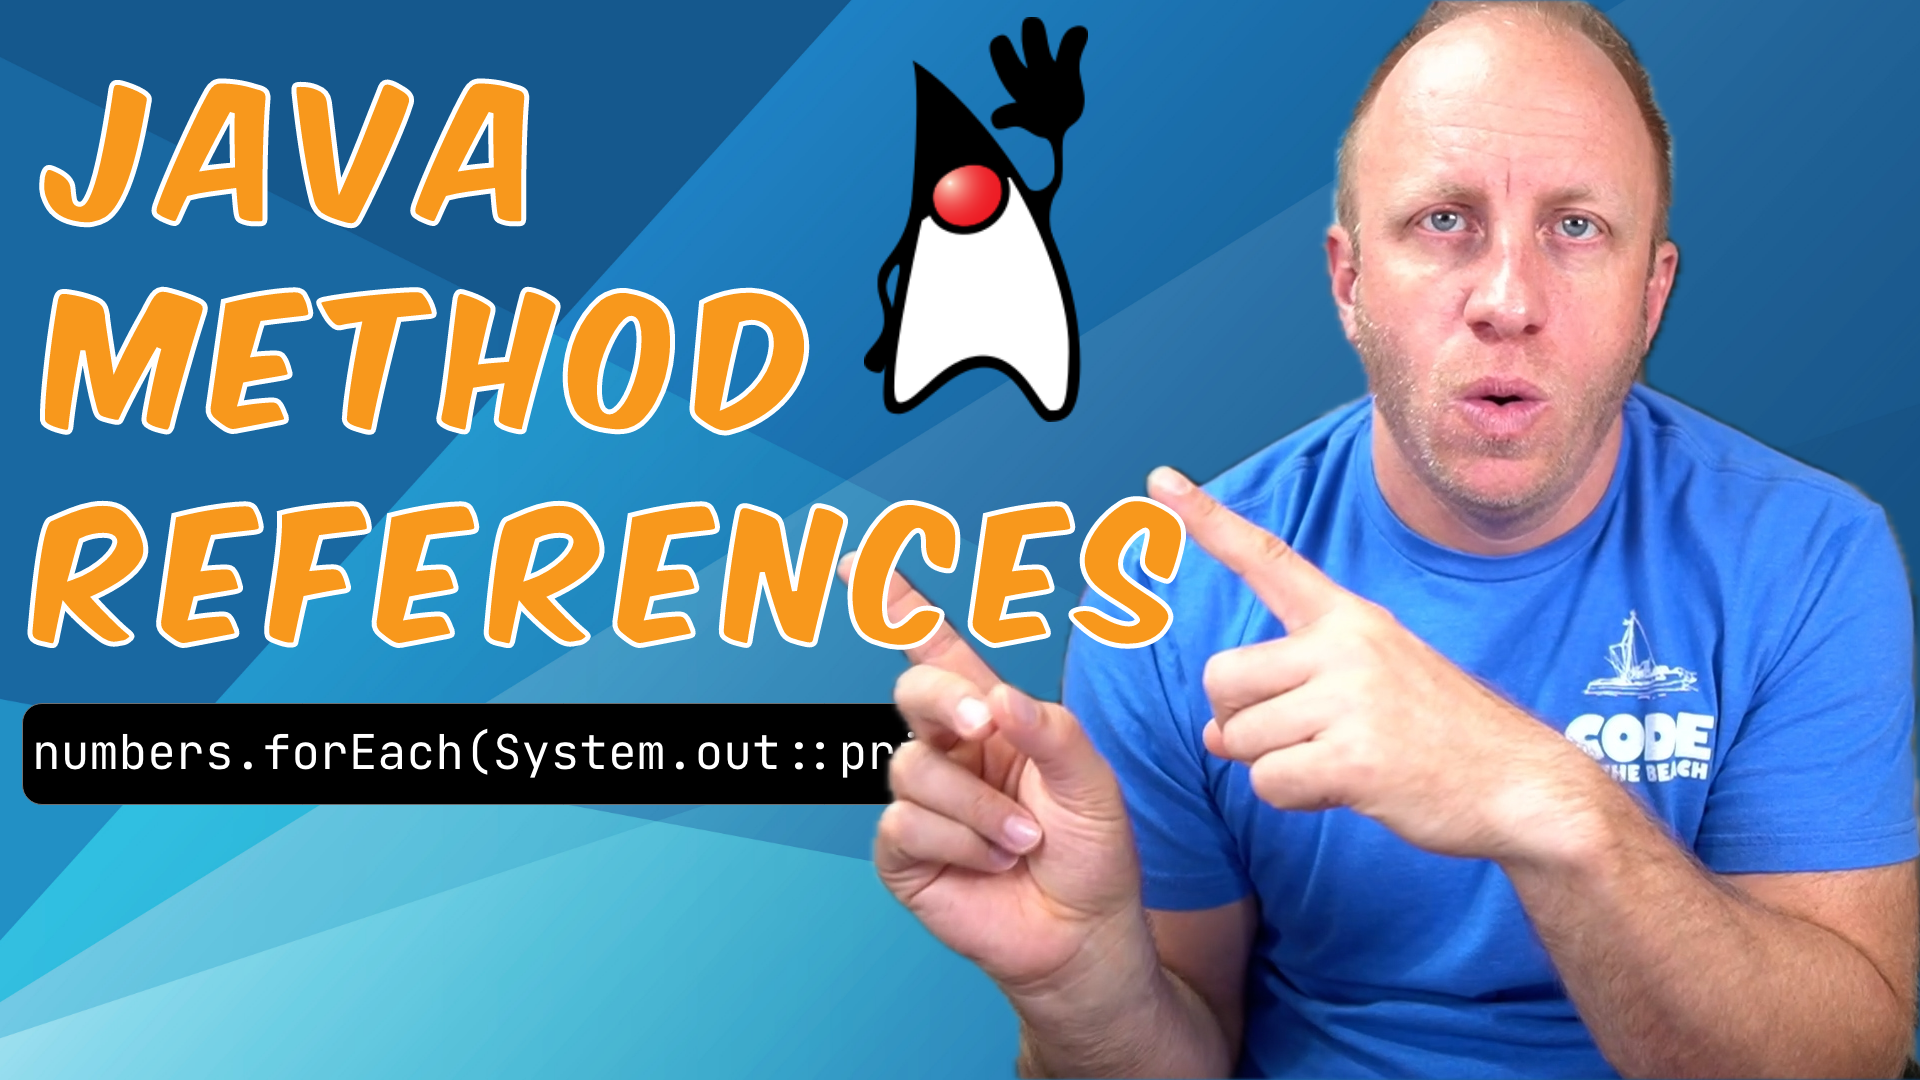
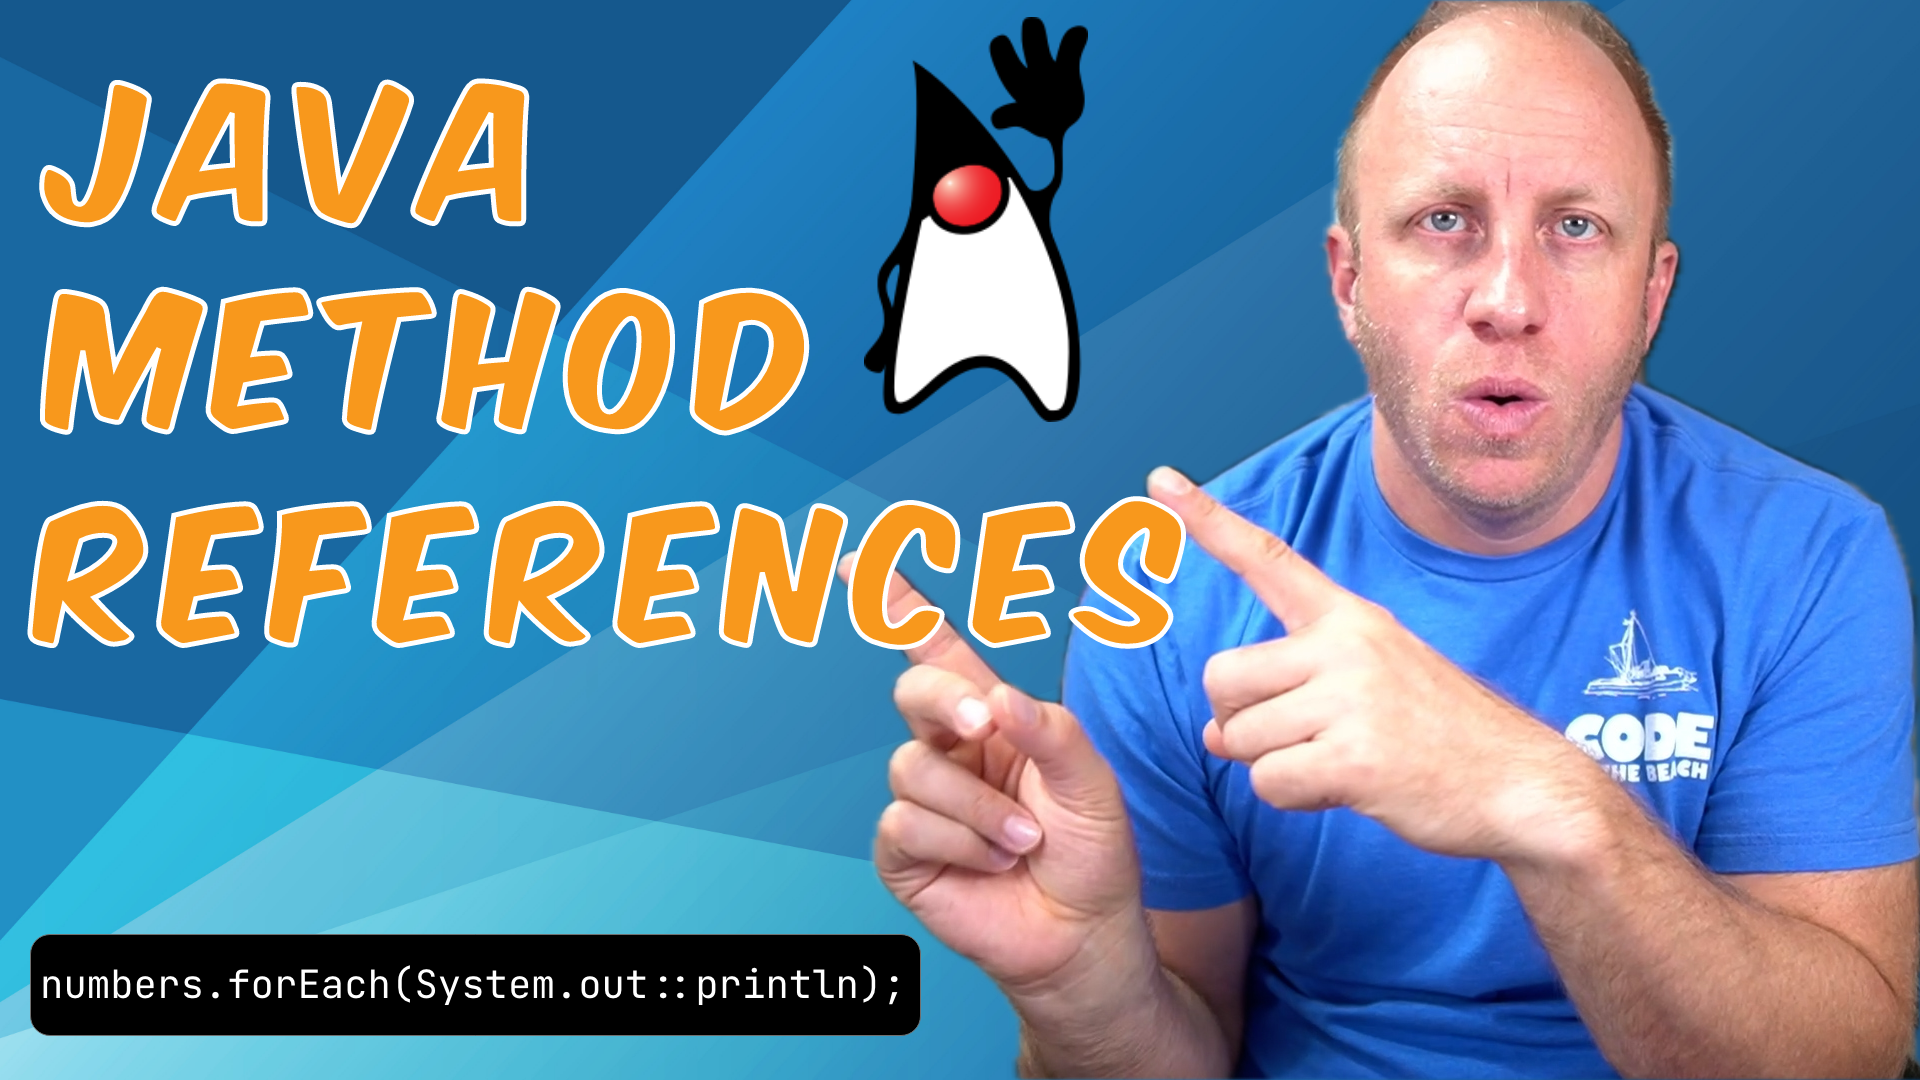
Updating cover image and adding youtube video

Changed region(s): [[0.0, 0.8556, 0.5, 0.9778], [0.0, 0.6417, 0.5, 0.7639]]

diff --git a/content/blog/2024/08/01/java-method-references.md b/content/blog/2024/08/01/java-method-references.md
@@ -9,7 +9,7 @@ tags:
   - Java
   - Functional Programming
 cover: java_method_references_with_me.png
-# video: https://www.youtube.com/embed/[Your_YouTube_Video_ID]
+video: https://www.youtube.com/embed/DELCbBuCHHE
 keywords: Java, Method References, Lambda Expressions, Functional Programming, Java 8 Features
 ---
 
